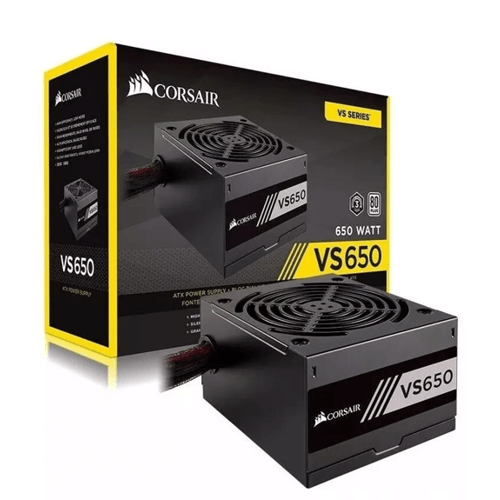
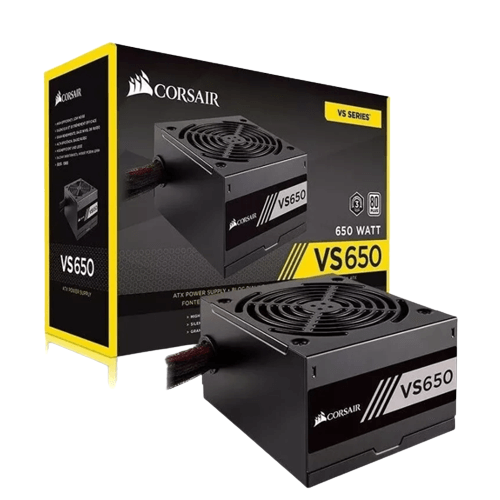
cambios generales

diff --git a/pages/nosotros.html b/pages/nosotros.html
@@ -49,6 +49,7 @@
                         <li class="menu_item"><a href="../pages/ofertas.html">Ofertas</a></li>
                         <li class="menu_item"><a href="../pages/giftcard.html">GiftCard</a></li> 
                         <li class="menu_item"><a href="../pages/carrito.html">Carrito</a></li>
+                        <li class="menu_item"><a href="../pages/cuenta.html">Mi Cuenta</a></li>
                         <li class="menu_item"><a href="#ayuda">Ayuda</a></li>
                     </ul>
                 </nav>
@@ -58,7 +59,14 @@
     <main>
         <div>
             <h2>Sobre Nosotros</h2>
-            <p>Lorem ipsum dolor sit amet consectetur adipisicing elit. Voluptatem quaerat dignissimos, magni, numquam facere dolore provident placeat, earum expedita animi obcaecati? Excepturi tempora animi totam harum suscipit illum officiis mollitia. Lorem ipsum dolor sit amet consectetur adipisicing elit. Beatae dolore ut voluptas esse, quod error alias ipsam. Debitis, corporis optio asperiores odit consectetur nesciunt inventore officia eius? Architecto, obcaecati consequuntur. Lorem ipsum dolor sit amet consectetur adipisicing elit. Expedita, aliquid assumenda in accusamus fuga accusantium libero sed. Impedit consectetur quos iste ipsum voluptas, cupiditate alias accusamus libero? Obcaecati, facere adipisci. Lorem ipsum dolor sit amet consectetur adipisicing elit. Debitis, voluptas. Labore voluptatum deleniti consectetur voluptas quae sapiente ratione eum nihil nemo, sequi consequatur pariatur, debitis consequuntur quibusdam voluptates minus aperiam.</p>
+            <p>La empresa de tecnología líder en comercio electrónico y soluciones fintech de América Latina. Nuestro propósito es democratizar el comercio y los servicios financieros para transformar la vida de millones de personas en la región.
+                <br>
+                Desarrollamos productos tecnológicos que permiten a millones de usuarios comprar, y pagar a través de Internet de forma fácil, segura y eficiente.
+                <br>
+                La tecnología es la herramienta que nos permite desarrollar soluciones escalables, capaces de generar el impacto necesario para impulsar la inclusión y el desarrollo.
+                <br>
+                Somos conscientes de nuestro rol social y económico cada vez más relevante. Compartimos nuestras acciones y noticias corporativas.
+            </p>
         </div>
         <h3>Trabaja con Nosotros</h3>
         <div>

diff --git a/pages/cuenta.html b/pages/cuenta.html
@@ -6,9 +6,9 @@
     <meta name="viewport" content="width=device-width, initial-scale=1.0">
     <link rel="shortcut icon" type="image/x-icon" href="../img/icono.png">
     <link href="https://fonts.googleapis.com/icon?family=Material+Icons" rel="stylesheet">
-    <link rel="stylesheet" href="../css/style-categorias.css">
+    <link rel="stylesheet" href="../css/style-index.css">
     <script src="https://kit.fontawesome.com/db95a8c38b.js" crossorigin="anonymous"></script>
-    <title>Perifericos</title>
+    <title>Mi Cuenta</title>
 </head>
 <body>
     <header>  
@@ -57,29 +57,20 @@
         </div>
     </header>
     <main>
-        <div>        
-            <h2>Perifericos</h2>
-            <p>Encontra aca tus perifericos preferidos</p>
-            <a href="../pages/teclahyp.html"><img src="../img/teclado.png" alt="Teclado-Alloy" width="250px"></a>
-            <h3>Teclado HyperX Alloy</h3>
-            <p>$6.000</p>
-            <a href="#"><img src="../img/mouse-razer.png" alt="Mouse-Razer" width="250px"></a>
-            <h3>Mouse Razer Deathadder V2</h3>
-            <p>$13.000</p>
-            <a href="#"><img src="../img/mouse-redragon.png" alt="Mouse-Redragon" width="250px"></a>
-            <h3>Mouse Redragon M711 Cobra</h3>
-            <p>$8.500</p>
-            <a href="#"><img src="../img/auriculares-hyperx-cloud.png" alt="Auriculares-Cloud" width="250px"></a>
-            <h3>Auriculares HyperX Cloud II </h3>
-            <p>$32.000</p>
-            <a href="#"><img src="../img/teclado-redragon.png" alt="Teclado-Draconic" width="250px"></a>
-            <h3>Teclado Redragon k530Draconic</h3>
-            <p>$15.000</p>
-            <a href="#"><img src="../img/auriculares-redragon-zeus.png" alt="Auriculares-Zeus" width="250px"></a>
-            <h3>Ariculares Redragon Zeus</h3>
-            <p>$33.000</p>
+        <div class="cont-cuenta">
+            <h2>Mi Cuenta</h2>
+            <h3>Datos de Cuenta</h3>
+            <div class="cont-datos-cuenta">
+                <p>Usuario</p>
+                <p>Email</p>
+            </div>
+            <h3>Datos Personales</h3>
+            <div class="cont-datos-personales">
+                <p>Nombre y Apellido</p>
+                <p>Documento</p>
+                <p>Telefono</p>
+            </div>
         </div>
-
     </main>
     <footer>
         <div class="cont-general">

diff --git a/pages/celulares.html b/pages/celulares.html
@@ -49,6 +49,7 @@
                             <li class="menu_item"><a href="../pages/ofertas.html">Ofertas</a></li>
                             <li class="menu_item"><a href="../pages/giftcard.html">GiftCard</a></li> 
                             <li class="menu_item"><a href="../pages/carrito.html">Carrito</a></li>
+                            <li class="menu_item"><a href="../pages/cuenta.html">Mi Cuenta</a></li>
                             <li class="menu_item"><a href="#ayuda">Ayuda</a></li>
                         </ul>
                     </nav>
@@ -59,19 +60,19 @@
         <div> 
             <h2>Celulares</h2>
             <p>Encontra aca el celular que buscas a un precio economico!</p>
-            <a href="#"><img src="../img/samsung-A23.jpg" alt="Samsung-A23" width="250px"></a>
+            <a href="#"><img src="../img/samsung-A23.png" alt="Samsung-A23" width="250px"></a>
             <h3>Samsung A23 128gb</h3>
             <a href="#"><img src="../img/samsung-s23.png" alt="Samsung-S23" width="250px"></a>
             <h3>Samsung S23 128gb</h3>
-            <a href="#">><img src="../img/moto-edge.jpg" alt="Motorola-Edge" width="250px"></a>
+            <a href="#"><img src="../img/modo-edge.png" alt="Motorola-Edge" width="250px"></a>
             <h3>Motorola Edge 128gb</h3>
-            <a href="#"><img src="../img/moto-g60s.jpg" alt="Motorola-G60S" width="250px"></a>
+            <a href="#"><img src="../img/moto-g60.png" alt="Motorola-G60S" width="250px"></a>
             <h3>Motorola G60S 128gb</h3>
-            <a href="#"><img src="../img/xiaomi note 9.jpg" alt="Xiaomi-Note-9" width="250px"></a>
+            <a href="#"><img src="../img/xiaomi_note_9.png" alt="Xiaomi-Note-9" width="250px"></a>
             <h3>Xiaomi Note 9 128gb</h3>
-            <a href="#"><img src="../img/iphone-13.jpg" alt="Iphone-13" width="250px"></a>
+            <a href="#"><img src="../img/iphone-13.png" alt="Iphone-13" width="250px"></a>
             <h3>Iphone 13 Pro Max 128gb</h3>
-            <a href="#"><img src="../img/iphone-14.jpg" alt="Iphone-14" width="250px"></a>
+            <a href="#"><img src="../img/iphone-14.png" alt="Iphone-14" width="250px"></a>
             <h3>Iphone 14 Pro Max 128gb</h3>    
         </div>
     </main>

diff --git a/pages/win10.html b/pages/win10.html
@@ -49,6 +49,7 @@
                         <li class="menu_item"><a href="../pages/ofertas.html">Ofertas</a></li>
                         <li class="menu_item"><a href="../pages/giftcard.html">GiftCard</a></li> 
                         <li class="menu_item"><a href="../pages/carrito.html">Carrito</a></li>
+                        <li class="menu_item"><a href="../pages/cuenta.html">Mi Cuenta</a></li>
                         <li class="menu_item"><a href="#ayuda">Ayuda</a></li>
                     </ul>
                 </nav>
@@ -56,10 +57,20 @@
         </div>
     </header>
     <main>
-        <div>
+        <div class="cont-producto">
             <img src="../img/win10.png" alt="Windows-10">
-            <h2>Windows 10</h2>
-            <p>$8.000</p>
+            <h2>Windows 10 Home</h2>
+            <p>$15.000</p>
+            <button>Comprar Ahora</button>
+            <button>Agregar al Carrito</button>
+        </div>
+        <div class="cont-descripcion">
+            <h3>Simplemente funciona</h3>
+            <p>Windows 10 combina el Windows que ya conoces con excelentes mejoras que te encantarán. Las tecnologías como InstantGo1 te permiten arrancar y reanudar el funcionamiento rápidamente. Y Windows 10 tiene más características de seguridad integradas que nunca para ayudar a protegerte contra software malintencionado.</p>
+            <h3>Multi-funciones</h3>
+            <p>Realiza múltiples tareas como un experto con la capacidad de ajustar cuatro cosas en la pantalla al mismo tiempo. ¿La pantalla se satura? Crea escritorios virtuales para tener más espacios y trabajar solo con los elementos que desees. Además, todas tus notificaciones y configuraciones clave están reunidas en una pantalla de fácil acceso.</p>
+            <h3>Excepcionalmente tuyo</h3>
+            <p>Tu dispositivo con Windows 10 te reconoce y responde a tu presencia en formas genuinamente personales. Con Windows Hello, el dispositivo te saluda por tu nombre, se enciende al reconocerte y te permite iniciar sesión fácilmente, sin necesidad de recordar o escribir una contraseña.</p>
         </div>
     </main>
     <footer>

diff --git a/pages/inteli5.html b/pages/inteli5.html
@@ -49,6 +49,7 @@
                         <li class="menu_item"><a href="../pages/ofertas.html">Ofertas</a></li>
                         <li class="menu_item"><a href="../pages/giftcard.html">GiftCard</a></li> 
                         <li class="menu_item"><a href="../pages/carrito.html">Carrito</a></li>
+                        <li class="menu_item"><a href="../pages/cuenta.html">Mi Cuenta</a></li>
                         <li class="menu_item"><a href="#ayuda">Ayuda</a></li>
                     </ul>
                 </nav>
@@ -56,10 +57,25 @@
         </div>
     </header>
     <main>
-        <div>
+        <div class="cont-producto">
             <img src="../img/i5.png" alt="TecladoHyperX">
             <h2>Procesador Intel I5 9400f</h2>
-            <p>$50.000</p>
+            <p>$60.000</p>
+            <button>Comprar Ahora</button>
+            <button>Agregar al Carrito</button>
+            <div class="cont-descripcion">
+                <h3>Descripcion</h3>
+                <p>Productividad y entretenimiento, todo disponible en tu computadora de escritorio. La superioridad tecnológica de INTEL es un beneficio para todo tipo de profesionales. Asegura el mejor rendimiento de las aplicaciones, de la transferencia de datos y la conexión con otros elementos tecnológicos.
+                En este producto, encontrarás los núcleos, que son los encargados de ejecutar las instrucciones y actividades que le asignás a tu dispositivo. Estos tienen relación directa con dos elementos: los hilos y el modelo. Por lo tanto, a la hora de elegir un procesador, es importante que valores los tres en su conjunto.</p>
+            </div>
+            <div class="cont-caracteristicas">
+                <h3>Características del Procesador Intel I5 9400F</h3>
+                <p>Tipos de memoria RAM soportadas: <b>DDR4</b></p>
+                <p>Cantidad de núcleos de CPU: <b>6</b></p>
+                <p>Zócalos compatibles: <b>FCLGA1151</b></p>
+                <p>Generación: <b>9°</b></p>
+                <p>Frecuencia máxima: <b>4.1 GHz</b></p>
+            </div>
         </div>
     </main>
     <footer>

diff --git a/pages/teclahyp.html b/pages/teclahyp.html
@@ -49,6 +49,7 @@
                         <li class="menu_item"><a href="../pages/ofertas.html">Ofertas</a></li>
                         <li class="menu_item"><a href="../pages/giftcard.html">GiftCard</a></li> 
                         <li class="menu_item"><a href="../pages/carrito.html">Carrito</a></li>
+                        <li class="menu_item"><a href="../pages/cuenta.html">Mi Cuenta</a></li>
                         <li class="menu_item"><a href="#ayuda">Ayuda</a></li>
                     </ul>
                 </nav>
@@ -56,10 +57,20 @@
         </div>
     </header>
     <main>
-        <div>
+        <div class="cont-producto">
             <img src="../img/teclado.png" alt="TecladoHyperX">
             <h2>Teclado HyperX Alloy</h2>
-            <p>$6.000</p>
+            <p>$15.000</p>
+            <button>Comprar Ahora</button>
+            <button>Agregar al Carrito</button>
+            <div class="cont-descripcion">
+                <h3>Descripcion</h3>
+                <p>Este teclado HyperX de alto rendimiento permite que puedas disfrutar de horas ilimitadas de juegos. Está diseñado especialmente para que puedas expresar tanto tus habilidades como tu estilo. Podrás mejorar tu experiencia de gaming, ya seas un aficionado o todo un experto y hacer que tus jugadas alcancen otro nivel.
+                Distinción a todo color
+                Su retroiluminación le da un toque diferente a tu equipo y resalta su composición cuando es utilizado en espacios poco iluminados.
+                Tecnología antighosting
+                Este dispositivo tiene teclas antighosting. Esta cualidad es indispensable si requerís de un uso intensivo del periférico. Gracias a esto podrás evitar fallas al tocar varias teclas al mismo tiempo.</p>
+            </div>
         </div>
     </main>
     <footer>

diff --git a/pages/hardware.html b/pages/hardware.html
@@ -49,6 +49,7 @@
                         <li class="menu_item"><a href="../pages/ofertas.html">Ofertas</a></li>
                         <li class="menu_item"><a href="../pages/giftcard.html">GiftCard</a></li> 
                         <li class="menu_item"><a href="../pages/carrito.html">Carrito</a></li>
+                        <li class="menu_item"><a href="../pages/cuenta.html">Mi Cuenta</a></li>
                         <li class="menu_item"><a href="#ayuda">Ayuda</a></li>
                     </ul>
                 </nav>
@@ -63,16 +64,16 @@
             <a href="../pages/inteli5.html"><img src="../img/i5.png" alt="Intel-i5" width="250px"></a>
             <h3>Procesador Intel I5 9400f</h3>
             <p>$50.000</p>
-            <a href="#"><img src="../img/gabinete.jpg" alt="Gabinete" width="250px"></a>
+            <a href="#"><img src="../img/gabinete.png" alt="Gabinete" width="250px"></a>
             <h3>Gabinete X616 Argb Tg Raidmax</h3>
             <p>$26.000</p>
             <a href="#"><img src="../img/memoria-ram.png" alt="Memoria-Ram" width="250px"></a>
             <h3>Memoria Ram 8GB ddr4 3200MHZ</h3>
             <p>$32.000</p>
-            <a href="#"><img src="../img/mother-aorus.jpg" alt="Mother-Aorus" width="250px"></a>
+            <a href="#"><img src="../img/mother-aorus.png" alt="Mother-Aorus" width="250px"></a>
             <h3>MotherBoard Gigabyte B560m Aorus 11ma</h3>
             <p>$55.000</p>
-            <a href="#"><img src="../img/ssd.jpg" alt="ssd" width="250px"></a>
+            <a href="#"><img src="../img/ssd.png" alt="ssd" width="250px"></a>
             <h3>Disco Solido ssd 240gb</h3>
             <p>$8.000</p>
             <a href="#"><img src="../img/fuente.png" alt="Fuente" width="250px"></a>

diff --git a/pages/software.html b/pages/software.html
@@ -49,6 +49,7 @@
                         <li class="menu_item"><a href="../pages/ofertas.html">Ofertas</a></li>
                         <li class="menu_item"><a href="../pages/giftcard.html">GiftCard</a></li> 
                         <li class="menu_item"><a href="../pages/carrito.html">Carrito</a></li>
+                        <li class="menu_item"><a href="../pages/cuenta.html">Mi Cuenta</a></li>
                         <li class="menu_item"><a href="#ayuda">Ayuda</a></li>
                     </ul>
                 </nav>
@@ -75,10 +76,10 @@
             <a href="#"><img src="../img/epic.png" alt="Epic" width="250px"></a>
             <h3>Epic Games</h3>
             <p>Free</p>
-            <a href="#"><img src="../img/win11.jpg" alt="Windows 11" width="300px"></a>
+            <a href="#"><img src="../img/win11.png" alt="Windows 11" width="300px"></a>
             <h3>Windows 11</h3>
             <p>$15.0000</p>
-            <a href="#"><img src="../img/win-xp.jpg" alt="Windows Xp" width="250px"></a>
+            <a href="#"><img src="../img/win-xp.png" alt="Windows Xp" width="250px"></a>
             <h3>Windows Xp</h3>
             <p>$1.0000</p>
         </div>

diff --git a/pages/ayuda.html b/pages/ayuda.html
@@ -49,6 +49,7 @@
                         <li class="menu_item"><a href="../pages/ofertas.html">Ofertas</a></li>
                         <li class="menu_item"><a href="../pages/giftcard.html">GiftCard</a></li> 
                         <li class="menu_item"><a href="../pages/carrito.html">Carrito</a></li>
+                        <li class="menu_item"><a href="../pages/cuenta.html">Mi Cuenta</a></li>
                         <li class="menu_item"><a href="#ayuda">Ayuda</a></li>
                     </ul>
                 </nav>

diff --git a/pages/carrito.html b/pages/carrito.html
@@ -49,6 +49,7 @@
                         <li class="menu_item"><a href="../pages/ofertas.html">Ofertas</a></li>
                         <li class="menu_item"><a href="../pages/giftcard.html">GiftCard</a></li> 
                         <li class="menu_item"><a href="../pages/carrito.html">Carrito</a></li>
+                        <li class="menu_item"><a href="../pages/cuenta.html">Mi Cuenta</a></li>
                         <li class="menu_item"><a href="#ayuda">Ayuda</a></li>
                     </ul>
                 </nav>

diff --git a/pages/giftcard.html b/pages/giftcard.html
@@ -49,6 +49,7 @@
                         <li class="menu_item"><a href="../pages/ofertas.html">Ofertas</a></li>
                         <li class="menu_item"><a href="../pages/giftcard.html">GiftCard</a></li> 
                         <li class="menu_item"><a href="../pages/carrito.html">Carrito</a></li>
+                        <li class="menu_item"><a href="../pages/cuenta.html">Mi Cuenta</a></li>
                         <li class="menu_item"><a href="#ayuda">Ayuda</a></li>
                     </ul>
                 </nav>

diff --git a/pages/ofertas.html b/pages/ofertas.html
@@ -49,6 +49,7 @@
                         <li class="menu_item"><a href="../pages/ofertas.html">Ofertas</a></li>
                         <li class="menu_item"><a href="../pages/giftcard.html">GiftCard</a></li> 
                         <li class="menu_item"><a href="../pages/carrito.html">Carrito</a></li>
+                        <li class="menu_item"><a href="../pages/cuenta.html">Mi Cuenta</a></li>
                         <li class="menu_item"><a href="#ayuda">Ayuda</a></li>
                     </ul>
                 </nav>
